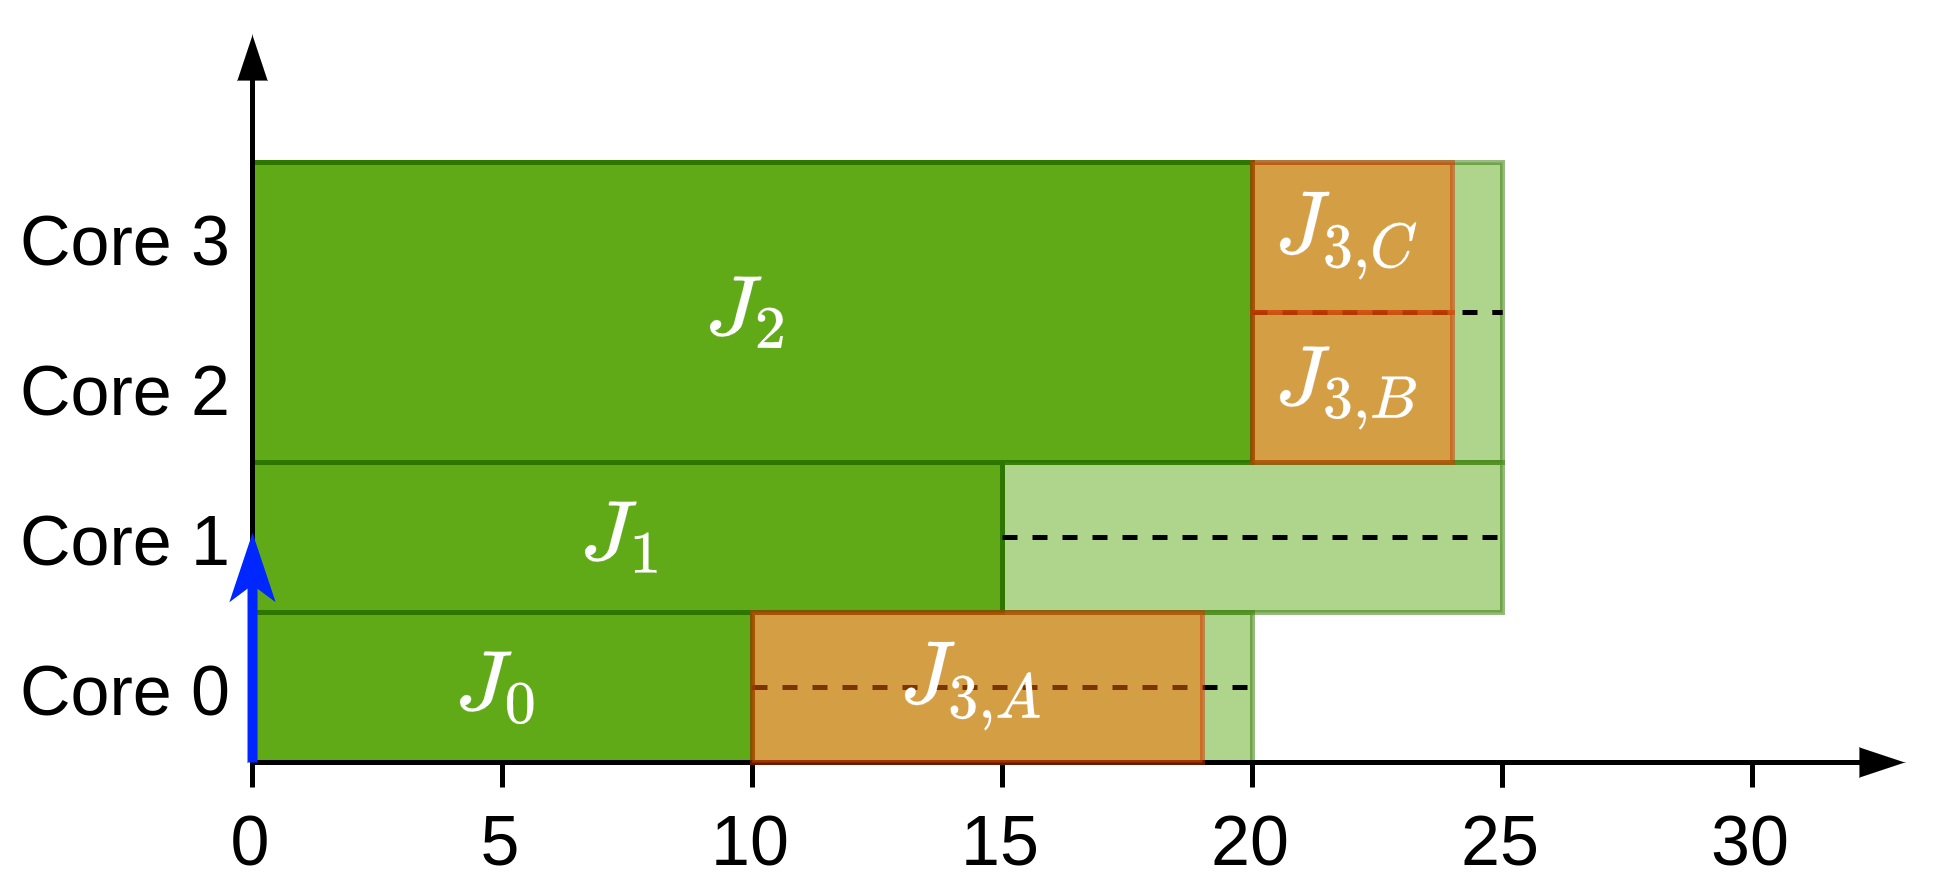
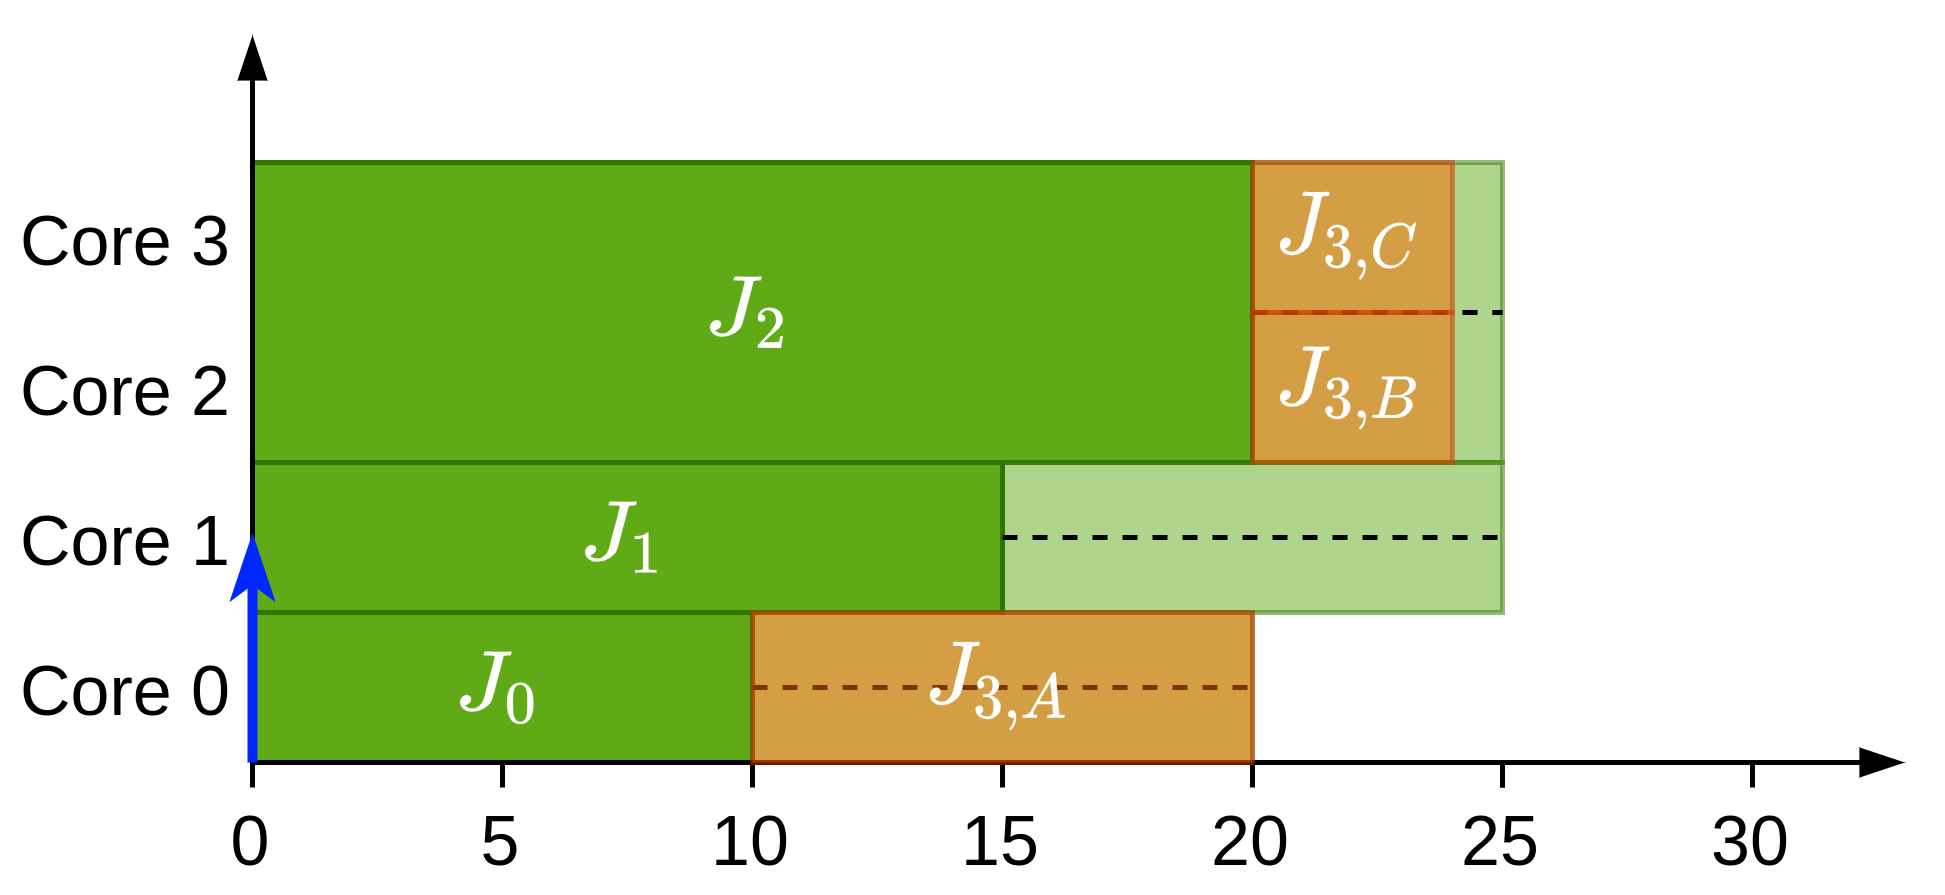
Added more info on solution

diff --git a/Notes/TFM/zExtra_03.md b/Notes/TFM/zExtra_03.md
@@ -2,17 +2,17 @@
 
 ## The problem
 
-When using precedence constraints and we are evaluating a low priority task $J_i$, we use $t_{high}$ to compute the time at which a high priority task can start. This works well for tasks without precedence constraints however, when such tasks exist as it can be possible that $J_i$ cannot start as the high priority task can start as soon as its predecessor finish. This is not contemplated in the current formulation.
+When using precedence constraints and we are evaluating a low priority task $J_i$, we use $t_{high}$ to compute the time at which a high priority job can start. This works well for jobs without precedence constraints however, when such jobs exist as it can be possible that $J_i$ cannot start as a high priority segment could always start as soon as its predecessor finishes. The current formulation provides a pessimist answer to this problem.
 
 Let's visualise this with an example. Let's suppose that we have the following system:
 
 | $J_i$ | $C_i^{\min}$ | $C_i^{\max}$ | $m_i$ | $P_i$ |
 | ----- | ------------ | ------------ | ----- | ----- |
 | $J_0$ | 15           | 25           | 1     | 0     |
-| $J_1$ | 20           | 30           | 3     | 1     |
-| $J_2$ | 10           | 10           | 1     | 2     |
+| $J_1$ | 20           | 30           | 3     | 0     |
+| $J_2$ | 10           | 10           | 1     | 1     |
 
-![Example system scenario][precedence_single]
+![Example system scenario](images/extra_03/precedence_single.png){width=70%}
 
 With this state we have three options:
 
@@ -32,59 +32,28 @@ With this state we have three options:
   - $EST_2^1(v) = 15$
   - $LST_2^1(v) = \min\{t_{wc}, t_{avail}, t_{high} - 1\} = \min\{25, 29, +\infty\}$
 
-## The solution
+## Examples of expected results
 
-Now that we have identified the problem we will attempt to fix it in a way that it also works for gang scheduling (as this is the focus of our work). Let's extend the previous example with gang scheduling.
+Some examples are shown with the expected values that we would like to have when using precedence constraints. The new version of the model should provide the same response as the created examples. 
 
-| $J_i$ | $C_i^{\min}$ | $C_i^{\max}$ | $m_i$ | $P_i$ | $prec(J_i)$ |
-| ----- | ------------ | ------------ | ----- | ----- | ----------- |
-| $J_0$ | 15           | 25           | 1     | 0     | $\emptyset$ |
-| $J_1$ | 20           | 30           | 3     | 1     | $\emptyset$ |
-| $J_2$ | 10           | 20           | 1     | 2     | $\emptyset$ |
-| $J_3$ | 10           | 20           | 2     | 0     | $\{ J_0\}$  |
-
-Now in this case there is a job with a higher priority than $J_2$  however, this job now requires 2 cores so it cannot immediately start executing.
-
-### Set of segments that have a higher priority and that can always start before $J_i$
-
-The idea of this set is to search for all the higher-priority segments that can always start before $J_i$ and thus "steal" the processors. It can be defined as follows:
-$$
-\mathcal{S}(v, J_i) = \Big\{ J_k | \underbrace{(\exists J_j | J_k \in succ(J_j) \land J_j \in \mathcal{X}(v))}_{\substack{\text{is successor of a} \\ \text{certainly running job}}} \land \underbrace{J_k \in hp_i}_{\substack{\text{has higher} \\ \text{priority}}}  \land \underbrace{t_{pred}(J_k) \le A_{m_k^{\min}}^{\min}(v)}_{\text{is ready}} \land \underbrace{A^{\min}_{m_k^{\min}} \le A^{\min}_{m_i^{\min}}}_{\substack{\text{enough cores available} \\ \text{to execute segment}}}\Big\}
-$$
-Where $t_{pred}(v, J_i)$ represents the earliest time at which we certainly know that a job will only wait for 1 predecessor. It can be computed as follows:
-$$
-t_{pred}(J_i) = \max\{ EFT_j, \{LFT_k | J_k \in pred(J_i) \setminus \{J_j\}\} \} \text{ where } \underbrace{J_j = J_k : LFT_k = \max_{J_k \in pred(J_i)}\{LFT_k\}\}}_{\text{job with largest LFT}}
-$$
-
-### Free cores for low-priority job
-
-Once we have $\mathcal{S}(v, J_i)$ we can compute the number of cores that are not taken by high-priority jobs with segments and thus are "free", let's call it $m^F$
-$$
-m^F = m - \sum_{J_k \in \mathcal{S}(v, J_i)} m_k^{\min}
-$$
-
-### New free availability
-
-This will be the availability of the "free" cores.
-
-## Examples
-
-Examples to test the model that we are building
+The job in **bold** is the next one that we are trying to see if it can be scheduled. Note that in the figures the orange blocks represent possible start time intervals given the current scenario, they don't mean execution times.
 
 ### Single precedence global
 
 In this case the high-priority segment only has one precedence constraint
 
-| $J_i$ | $C_i^{\min}$ | $C_i^{\max}$ | $m_i$ | $P_i$ | $prec(J_i)$            |
-| ----- | ------------ | ------------ | ----- | ----- | ---------------------- |
-| $J_0$ | 15           | 25           | 1     | 0     | $\emptyset$            |
-| $J_1$ | 20           | 30           | 3     | 0     | $\emptyset$            |
-| $J_2$ | 10           | 10           | 1     | 1     | $\emptyset$            |
-| $J_3$ | 10           | 10           | 1     | 0     | $\{J_0\}$ or $\{J_1\}$ |
+- | $J_i$              | $C_i^{\min}$ | $C_i^{\max}$ | $m_i$ | $P_i$ | $prec(J_i)$            |
+  | ------------------ | ------------ | ------------ | ----- | ----- | ---------------------- |
+  | $J_0$              | 15           | 25           | 1     | 0     | $\emptyset$            |
+  | $J_1$              | 20           | 30           | 3     | 0     | $\emptyset$            |
+  | $\boldsymbol{J_2}$ | 10           | 10           | 1     | 1     | $\emptyset$            |
+  | $J_3$              | 10           | 10           | 1     | 0     | $\{J_0\}$ or $\{J_1\}$ |
 
-We thus have the following state and we are wondering whether $J_2$ will be scheduled next or not: 
 
-![System state before scheduling $J_2$][precedence_single]
+- We thus have the following state and we are wondering whether $\boldsymbol{J_2}$ will be scheduled next or not: 
+
+
+![System state before scheduling $J_2$](images/extra_03/precedence_single.png){width=70%}
 
 - **Option A**: If $prec(J_3) = \{J_0\}$:
   - $EST_2^1 = 20$ and $LST_2^1 = 24$
@@ -93,24 +62,23 @@ We thus have the following state and we are wondering whether $J_2$ will be sche
 
 Which would produce the following options:
 
-![System state with possible $J_2$ $EST_2^1$ and $LST_2^1$ for options A and B][precedence_single_AB]
-
-**Extracted rule 1:** A segment $J_k$ with higher-priority than $J_i$ that can start as soon as its predecessor finishes acts as if $J_k$ reserves the core.
+![System state with possible $J_2$ $EST_2^1$ and $LST_2^1$ for options A and B](images/extra_03/precedence_single_job.png){width=70%}
 
 ### Single precedence constraint gang
 
 In this example the high-priority segment only has one precedence constraint but it needs 3 cores
 
-| $J_i$ | $C_i^{\min}$ | $C_i^{\max}$ | $m_i$ | $P_i$ | $prec(J_i)$            |
-| ----- | ------------ | ------------ | ----- | ----- | ---------------------- |
-| $J_0$ | 15           | 25           | 1     | 0     | $\emptyset$            |
-| $J_1$ | 20           | 30           | 3     | 0     | $\emptyset$            |
-| $J_2$ | 10           | 10           | 1     | 1     | $\emptyset$            |
-| $J_3$ | 10           | 10           | 3     | 0     | $\{J_0\}$ or $\{J_1\}$ |
+| $J_i$              | $C_i^{\min}$ | $C_i^{\max}$ | $m_i$ | $P_i$ | $prec(J_i)$            |
+| ------------------ | ------------ | ------------ | ----- | ----- | ---------------------- |
+| $J_0$              | 15           | 25           | 1     | 0     | $\emptyset$            |
+| $J_1$              | 20           | 30           | 3     | 0     | $\emptyset$            |
+| $\boldsymbol{J_2}$ | 10           | 10           | 1     | 1     | $\emptyset$            |
+| $J_3$              | 10           | 10           | 3     | 0     | $\{J_0\}$ or $\{J_1\}$ |
 
-We continue to have the same initial state and we are wondering how can $J_2$ be scheduled next:
+- We continue to have the same initial state and we are wondering how can $\boldsymbol{J_2}$ be scheduled next:
 
-![System state before scheduling $J_2$][precedence_single]
+
+![System state before scheduling $J_2$](images/extra_03/precedence_single.png){width=70%}
 
 In this case with the two options we obtain:
 
@@ -119,9 +87,7 @@ In this case with the two options we obtain:
 - **Option B**: If $prec(J_3) = \{J_1\}$
   - $EST_2^1 = 15$ and $LST_2^1 = 25$
 
-![Possible scheduling times of $J_2$ for options A and B][precedence_single_AB_gang]
-
-**Extracted rule 2**: If a segment $J_k$ with higher-priority than $J_i$ requires more cores than $J_i$ (so $m_i^{\min} < m_k^{\min}$) then $J_i$ can possibly execute while $J_k$ is waiting for the cores
+![Possible scheduling times of $J_2$ for options A and B](images/extra_03/precedence_single_gang_job.png){width=70%}
 
 ### Single precedence constraint global but lower job is gang
 
@@ -136,16 +102,14 @@ This example is very similar to the previous one but with the difference that th
 
 
 
-![System state before scheduling $J_2$][precedence_single]
+![System state before scheduling $J_2$](images/extra_03/precedence_single.png){width=70%}
 
 - **Option A**: If $prec(J_3) = \{J_0\}$:
   - $EST_2^1 = 20$ and $LST_2^1 = 24$ since $J_3$ could still be waiting for its precedence to finish
 - **Option B**: If $prec(J_3) = \{J_1\}$
   - $EST_2^1 = 25$ and $LST_2^1 = 24$ and thus scheduling is not possible
 
-![Possible scheduling times of $J_2$ for options A and B][precedence_single_AB_lower_gang]
-
-**Extracted rule 3**: If a segment $J_k$ with higher-priority than $J_i$ requires less cores than $J_i$ (so $m_i^{\min} > m_k^{\min}$) then $J_k$ will be able to "steal cores from the system".
+![Possible scheduling times of $J_2$ for options A and B](images/extra_03/precedence_single_lower_gang_job.png){width=70%}
 
 ### Single precedence constraint gang and lower job is gang
 
@@ -160,12 +124,14 @@ This example is very similar to the previous one but with the difference that bo
 
 
 
-![System state before scheduling $J_2$][precedence_single_gang_gang]
+![System state before scheduling $J_2$](images/extra_03/precedence_single_gang_gang.png){width=70%}
 
 - **Option A**: If $prec(J_3) = \{J_0\}$:
   - $EST_2^1 = 30$ and $LST_2^1 = 29$ and thus scheduling is not possible
 - **Option B**: If $prec(J_3) = \{J_1\}$
   - $EST_2^1 = 30$ and $LST_2^1 = 29$ and thus scheduling is not possible
+
+![Possible scheduling times of $J_2$ for options A and B](images/extra_03/precedence_single_gang_gang_job.png){width=70%}
 
 ### Multiple precedence constraints global
 
@@ -178,16 +144,14 @@ In this example the high-priority segment has more than one precedence constrain
 | $J_2$ | 10           | 10           | 1     | 1     | $\emptyset$     |
 | $J_3$ | 10           | 10           | 1     | 0     | $\{J_0 , J_1\}$ |
 
-![System state before scheduling $J_2$][precedence_multi]
+![System state before scheduling $J_2$](images/extra_03/precedence_multi.png){width=70%}
 
 In this case $J_3$ has to wait for both its parents to finish execution so $J_2$ can be scheduled with:
 
 - $EST_2^1 = 10$
 - $LST_2^1 = 19$
 
-![Possible scheduling times of $J_2$][precedence_multi_job]
-
-**Extracted rule** 4: When trying to schedule a lower-priority job $J_i$. If there are multiple precedence constraints waiting at the same time only the smallest $m_j$ for all the certainly running predecessors of a ready successor.
+![Possible scheduling times of $J_2$](images/extra_03/precedence_multi_job.png){width=70%}
 
 ### Multiple precedence constraints gang
 
@@ -201,13 +165,13 @@ In this example the high-priority segment has more than one precedence constrain
 | $J_3$ | 10           | 10           | 1 (A), 2 (B) or 3 (C) | 1     | $\emptyset$     |
 | $J_4$ | 10           | 10           | 2                     | 0     | $\{J_0 , J_1\}$ |
 
-![System state before scheduling $J_2$][precedence_multi_gang]
+![System state before scheduling $J_2$](images/extra_03/precedence_multi_gang.png){width=70%}
 
 In this case there are three different scenarios depending in the number of cores that $J_3$ is assigned. Also, $J_4$ has to wait for both its parents to finish execution. So:
 
 - **Option A**: $m_3 = 1$:
   - $EST_2^1 = 10$
-  - $LST_2^1 = 19$
+  - $LST_2^1 = 20$
 - **Option B**: $m_3 = 2$:
   - $EST_2^1 = 20$
   - $LST_2^1 = 24$
@@ -215,22 +179,33 @@ In this case there are three different scenarios depending in the number of core
   - $EST_2^1 = 20$
   - $LST_2^1 = 24$
 
-![Possible scheduling times of $J_2$][precedence_multi_gang_job]
+![Possible scheduling times of $J_2$](images/extra_03/precedence_multi_gang_job.png){width=70%}
 
-[precedence_single]: images/extra_03/precedence_single.png "Example single core" {width=70%}
+## The solution
 
-[precedence_single_AB]: images/extra_03/precedence_single_AB.png "Example single core" {width=70%}
+### Rules found
 
-[precedence_single_AB_gang]: images/extra_03/precedence_single_AB_gang.png "Example single core" {width=70%}
+For a job $J_i$ if there is a segment with higher priority $J_k$ with predecessors $J_j$ (so $pred(J_k) = \{J_{j,1}, J_{j,2}, ...\}$):
 
-[precedence_single_AB_lower_gang]: images/extra_03/precedence_single_AB_lower_gang.png "Example single core" {width=70%}
+- We have to look at the cores that will always be "taken" by $J_k$ and set $A^{\min}$ to the value of $A^{\max}$ for those cores **only when computing** $EST_{\boldsymbol{i}}^p(v)$
+- One or more cores will be always "taken" by $J_k$ if:
+  - $m_i^{\min} \ge m_k^{\min}$
+  - and $p_i < p_k$
+  - and scheduling of $J_i$ would use all the cores currently in use by $pred(J_k) \cap \mathcal{X}(v)$ in a first instance
 
-[precedence_single_gang_gang]: images/extra_03/precedence_single_gang_gang.png "Example single core" {width=70%}
+### New availability
 
-[precedence_multi]: images/extra_03/precedence_multi.png "Example multiple precedence constraints" {width=70%}
+To solve the issue a new availability **only used to compute** $EST_i^p(v)$ is created. In this availability all the $A^{\min}$ values matching the $EFT_j(v)$ for all $J_j \in pred(J_k) \cap \mathcal{X}(v)$  such that $J_k$ that matches the previous conditions, are increased until not all the $EFT_j(v)$ are required.
 
-[precedence_multi_job]: images/extra_03/precedence_multi_job.png "Example multiple precedence constraints" {width=70%}
+### Example
 
-[precedence_multi_gang]: images/extra_03/precedence_multi_gang.png "Example multiple precedence constraints" {width=70%}
 
-[precedence_multi_gang_job]: images/extra_03/precedence_multi_gang_job.png "Example multiple precedence constraints" {width=70%}
+
+| $J_i$ | $C_i^{\min}$ | $C_i^{\max}$ | $m_i$ | $P_i$ | $prec(J_i)$     |
+| ----- | ------------ | ------------ | ----- | ----- | --------------- |
+| $J_0$ | 5            | 20           | 1     | 0     | $\emptyset$     |
+| $J_1$ | 10           | 25           | 1     | 0     | $\emptyset$     |
+| $J_2$ | 15           | 30           | 1     | 0     | $\emptyset$     |
+| $J_3$ | 20           | 35           | 1     | 0     | $\emptyset$     |
+| $J_4$ | 10           | 10           | 2     | 0     | $\{J_0 , J_1\}$ |
+| $J_5$ | 10           | 10           | 2     | 1     | $\emptyset$     |
